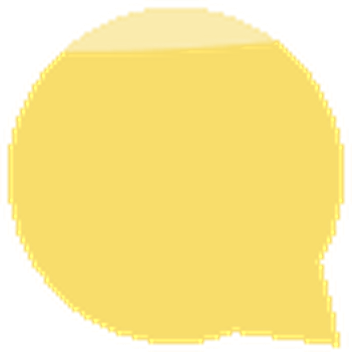
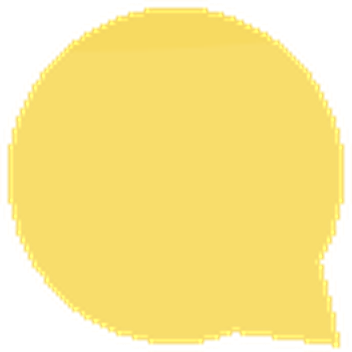
fix(v0.1.88): icones do CTA opacos — watermark vazava por dentro da forma
Sintoma relatado: 'os icones e textos parecem estar atras da logo grande e
pegando a cor dela'. Nao era z-index (icones ja em zIndex 2, watermark em 0):
o PNG extraido tinha alpha ~0.55 no MIOLO da forma, entao a watermark aparecia
por dentro do icone.

Causa: extrai o alpha pela distancia a COR DO ELEMENTO. O interior do icone no
modelo nao e o soft exato (#F7DA61 e nao #F8DD6B), entao caia dentro do limiar e
virava semi-transparente. Corrigido para alpha pela distancia ao FUNDO (com os
dois tons, manga e watermark) — o interior fica 100% opaco por construcao.
Medido depois: interior #F7DA61 / #F8DD6B solidos, iguais ao modelo.

Tambem corrigido: o width/height do <Img> e o do BOX do recorte (inclui a
margem transparente), nao o da forma — declarar o tamanho da forma encolhia o
icone para 64px em vez de 68. E o alinhamento vertical: icone centrado na 1a
linha do texto (medido no modelo, centros coincidem +-2px), bloco em T23.6%.

RULES §27 e a ficha da categoria atualizadas com as tres armadilhas.

Changed region(s): [[0.1875, 0.0, 0.7812, 0.1562]]

diff --git a/templates/components/troque-por-isso/TroquePorIsso.tsx b/templates/components/troque-por-isso/TroquePorIsso.tsx
@@ -210,10 +210,12 @@ export const TrocaFecho: React.FC<{
    As formas não são as óbvias: o do meio NÃO é um triângulo simples (tem o lado esquerdo
    dobrado, é um cursor/enviar) e o balão tem o rabinho no canto inf-DIREITO — desenhar "de
    cabeça" errou os dois. Tamanhos = os medidos no modelo. Ver RULES §27. */
+/* ⚠️ w/h = tamanho do BOX do recorte (inclui a margem transparente ao redor da forma),
+   não o tamanho da forma. Forma real: 68×86 · 103×86 · 84×84 (medida no modelo). */
 const ICONES_CTA: {src: string; w: number; h: number}[] = [
-  {src: 'oficial/_troca-icone-salvar.png', w: 68, h: 86},        // bookmark (salvar)
-  {src: 'oficial/_troca-icone-compartilhar.png', w: 103, h: 86}, // cursor/enviar (compartilhar)
-  {src: 'oficial/_troca-icone-comentar.png', w: 84, h: 84},      // balão, rabinho à DIREITA
+  {src: 'oficial/_troca-icone-salvar.png', w: 72, h: 90},        // bookmark (salvar)
+  {src: 'oficial/_troca-icone-compartilhar.png', w: 107, h: 90}, // cursor/enviar (compartilhar)
+  {src: 'oficial/_troca-icone-comentar.png', w: 88, h: 88},      // balão, rabinho à DIREITA
 ];
 
 export const TrocaCta: React.FC<{blocos: string[]}> = ({blocos}) => (
@@ -229,12 +231,15 @@ export const TrocaCta: React.FC<{blocos: string[]}> = ({blocos}) => (
     }} />
 
     <div style={{
-      position: 'absolute', left: '15.1%', top: '22%', width: '78%', zIndex: 2,
+      position: 'absolute', left: '15.1%', top: '23.6%', width: '78%', zIndex: 2,
       display: 'flex', flexDirection: 'column', gap: 90,
     }}>
       {blocos.map((b, i) => (
         <div key={i} style={{display: 'flex', alignItems: 'flex-start', gap: 32}}>
-          <div style={{width: 102, minWidth: 102, display: 'flex', justifyContent: 'center', paddingTop: 6}}>
+          {/* ícone CENTRADO na 1ª linha do texto (medido no modelo: centro do ícone = centro
+              da 1ª linha, ±2px). A altura da linha é 67×1.38 ≈ 92, ~= a altura do ícone. */}
+          <div style={{width: 102, minWidth: 102, height: 92, display: 'flex',
+            justifyContent: 'center', alignItems: 'center'}}>
             <Img src={staticFile(ICONES_CTA[i % 3].src)}
               style={{width: ICONES_CTA[i % 3].w, height: ICONES_CTA[i % 3].h, display: 'block'}} />
           </div>

diff --git a/knowledge-base/padroes/troque-por-isso.md b/knowledge-base/padroes/troque-por-isso.md
@@ -152,16 +152,23 @@ de SVG/viewBox faz o valor efetivo ser menor que o declarado.
 - Fundo manga + **watermark DOMa GIGANTE** tom-sobre-tom `#F3B530`: logo VERTICAL empilhada via
   CSS mask de `logotipo-vertical-branco.png`, `top 20%`, `left -13.5%`, `width 127%`,
   `aspectRatio 1681/1328` — sangra a base.
-- **3 blocos** ícone + texto: bloco em `L15.1% T22% W78%`, **gap 90px** entre blocos
+- **3 blocos** ícone + texto: bloco em `L15.1% T23.6% W78%`, **gap 90px** entre blocos
   (medido: bloco1 top 338 → bloco2 top 521), ícone em coluna de 102px, gap 32 do texto.
 - Texto **fontSize 67**, `lineHeight 1.38`, primeira palavra em **bold**
   ("Salve", "Compartilhe", "E conta pra gente:").
 - **Ícones soft** (`#F8DD6B`) = assets EXTRAÍDOS do modelo (RULES §27), ❌ nunca redesenhados:
-  | Ícone | asset | tamanho | detalhe que errei ao desenhar |
-  |---|---|---|---|
-  | salvar | `_troca-icone-salvar.png` | 68×86 | bookmark com entalhe em V na base |
-  | compartilhar | `_troca-icone-compartilhar.png` | 103×86 | **não é triângulo** — cursor com o lado esq dobrado |
-  | comentar | `_troca-icone-comentar.png` | 84×84 | balão com rabinho no canto inf-**DIREITO** |
+  | Ícone | asset | forma (medida) | box do `<Img>` | detalhe que errei ao desenhar |
+  |---|---|---|---|---|
+  | salvar | `_troca-icone-salvar.png` | 68×86 | 72×90 | bookmark com entalhe em V na base |
+  | compartilhar | `_troca-icone-compartilhar.png` | 103×86 | 107×90 | **não é triângulo** — cursor com o lado esq dobrado |
+  | comentar | `_troca-icone-comentar.png` | 84×84 | 88×88 | balão com rabinho no canto inf-**DIREITO** |
+
+  ⚠️ O `width/height` do `<Img>` é o do **box do recorte** (inclui a margem transparente), não o da
+  forma. Declarar o tamanho da forma encolhe o ícone.
+  ⚠️ Os ícones ficam **por cima da watermark** (`zIndex 2` vs `0`). Se parecerem "atrás da logo" ou
+  com a cor dela por dentro, o problema é **alpha parcial no PNG**, não z-index — ver RULES §27.
+- **Ícone centrado na 1ª linha do texto** (medido: centros coincidem ±2px). Container do ícone com
+  `height 92` (= altura da linha) e `alignItems: center`.
 - **Sem logo** no rodapé — a watermark faz o papel de marca.
 
 ---
@@ -210,3 +217,4 @@ de SVG/viewBox faz o valor efetivo ser menor que o declarado.
 | 7 | Foto de capa "artificial", preço em papelão | enquadramento aberto + etiqueta impressa (§4) |
 | 8 | ✅ da lista com 33px (modelo tem 59) | `rect` preenche o viewBox → `size` = lado real; 55px (§5) |
 | 9 | ✅ e ícones do CTA desenhados à mão (chapados, formas erradas) | **extraídos do modelo** como PNG transparente (RULES §27) |
+| 10 | Ícones do CTA "atrás da logo", pegando a cor da watermark | alpha do PNG era ~0.55 no miolo — extrair com alpha pela distância ao FUNDO (RULES §27) |

diff --git a/knowledge-base/padroes/RULES-recriacao.md b/knowledge-base/padroes/RULES-recriacao.md
@@ -338,9 +338,19 @@ rgb  = np.broadcast_to(SOFT, sub.shape)      # cor chapada; use `sub` p/ preserv
 Image.fromarray(np.dstack([rgb, a*255]).astype(np.uint8), 'RGBA') \
      .resize((w*4, h*4), Image.LANCZOS).save(destino)
 ```
+- **Medir o alpha pela distância ao FUNDO, nunca à cor do elemento.** Foi o erro que gerou o
+  sintoma "os ícones parecem estar ATRÁS da logo / pegando a cor dela": o interior do ícone no
+  modelo não era o soft exato (`#F7DA61` em vez de `#F8DD6B`), então o alpha caiu para ~0.55 e a
+  watermark de trás vazava por dentro da forma. Com alpha pela distância ao fundo, o interior
+  fica 100% opaco por construção.
+  Fundo com mais de um tom (fundo + watermark): `d = min(dist(px, tom1), dist(px, tom2))`.
 - **Escolher o LIMIAR pela distância entre elemento e fundo**, não por chute. Aqui soft vs manga
-  distam 34 → limiar 22 zera o fundo com folga. ⚠️ Primeira tentativa usou limiar 95 e o fundo
+  distam 34 → limiar 22 zera o fundo com folga. ⚠️ Outra tentativa usou limiar 95 e o fundo
   saiu com alpha 0.88 — o retângulo do recorte apareceu na peça.
+- **Conferir o alpha do CENTRO (tem que ser 255) e o da borda (tem que ser ~0).** Só a borda não
+  basta: o vazamento acontece no miolo.
+- **O `width/height` do `<Img>` é o do BOX do recorte, não o da forma** — o box inclui a margem
+  transparente. Declarar o tamanho da forma encolhe o elemento (aconteceu: 64px em vez de 68).
 - Elemento **multicolor** (emoji com brilho/sombra): alpha pela distância ao FUNDO e RGB do
   próprio pixel, senão perde o degradê.
 - Exportar em **4×** e deixar o CSS reduzir — o render é scale 2.